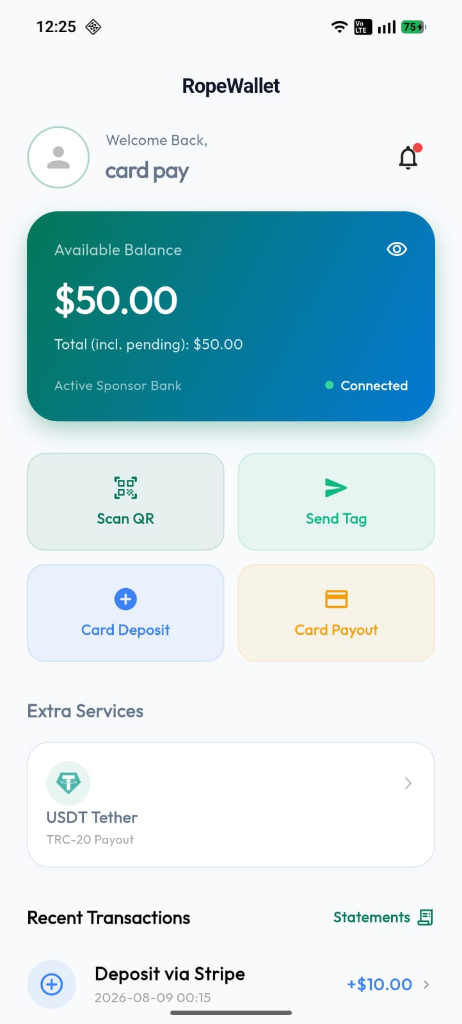
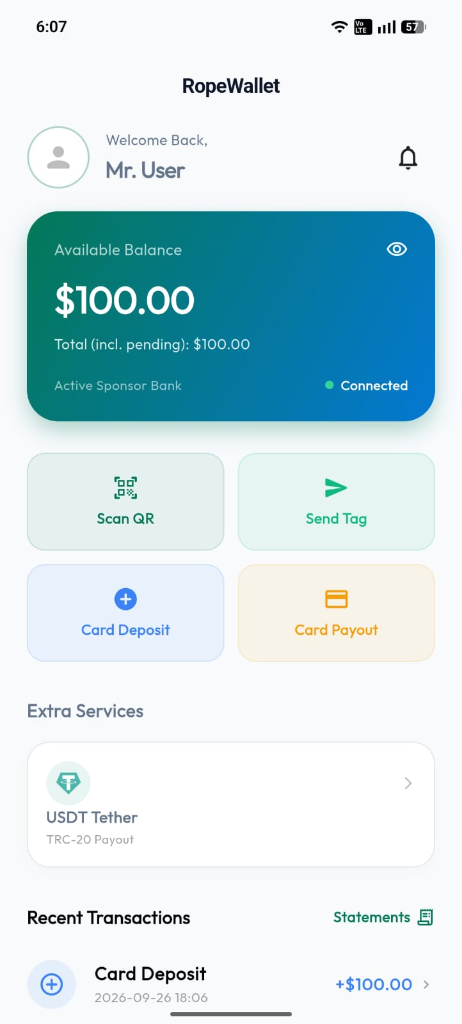
update image

diff --git a/frontend/src/app/page.tsx b/frontend/src/app/page.tsx
@@ -654,7 +654,7 @@ export default function ProfessionalWhiteLandingPage() {
 
                     {/* Actual RopeWallet Mobile App Dashboard */}
                     <img
-                      src="/app_dashboard.png"
+                      src="/app_dashboard.png?v=2"
                       alt="RopeWallet Mobile Dashboard"
                       width={325}
                       height={680}
